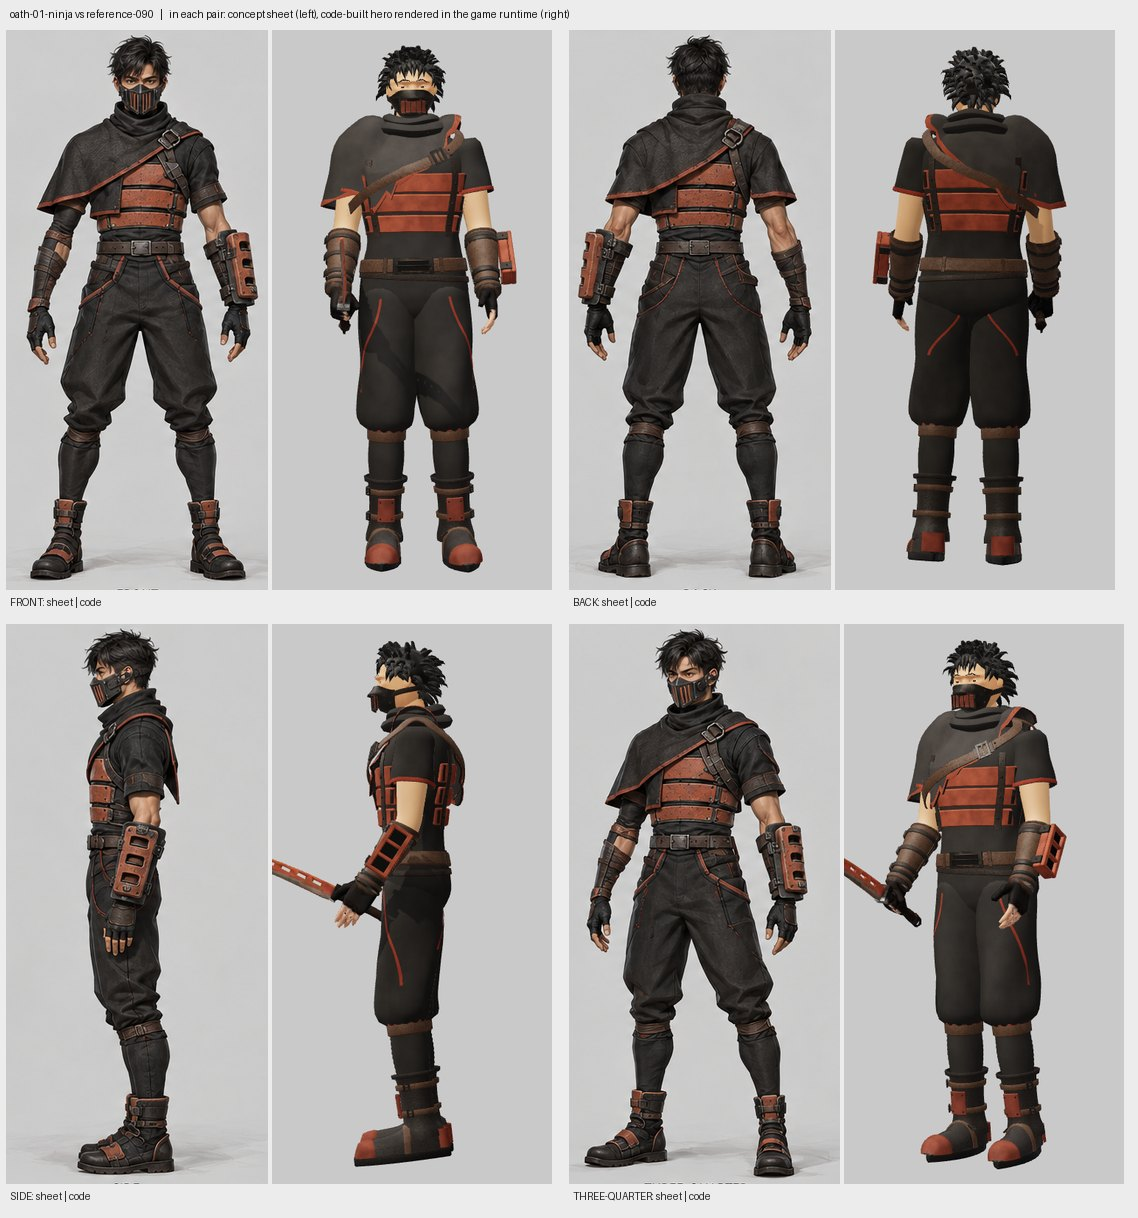
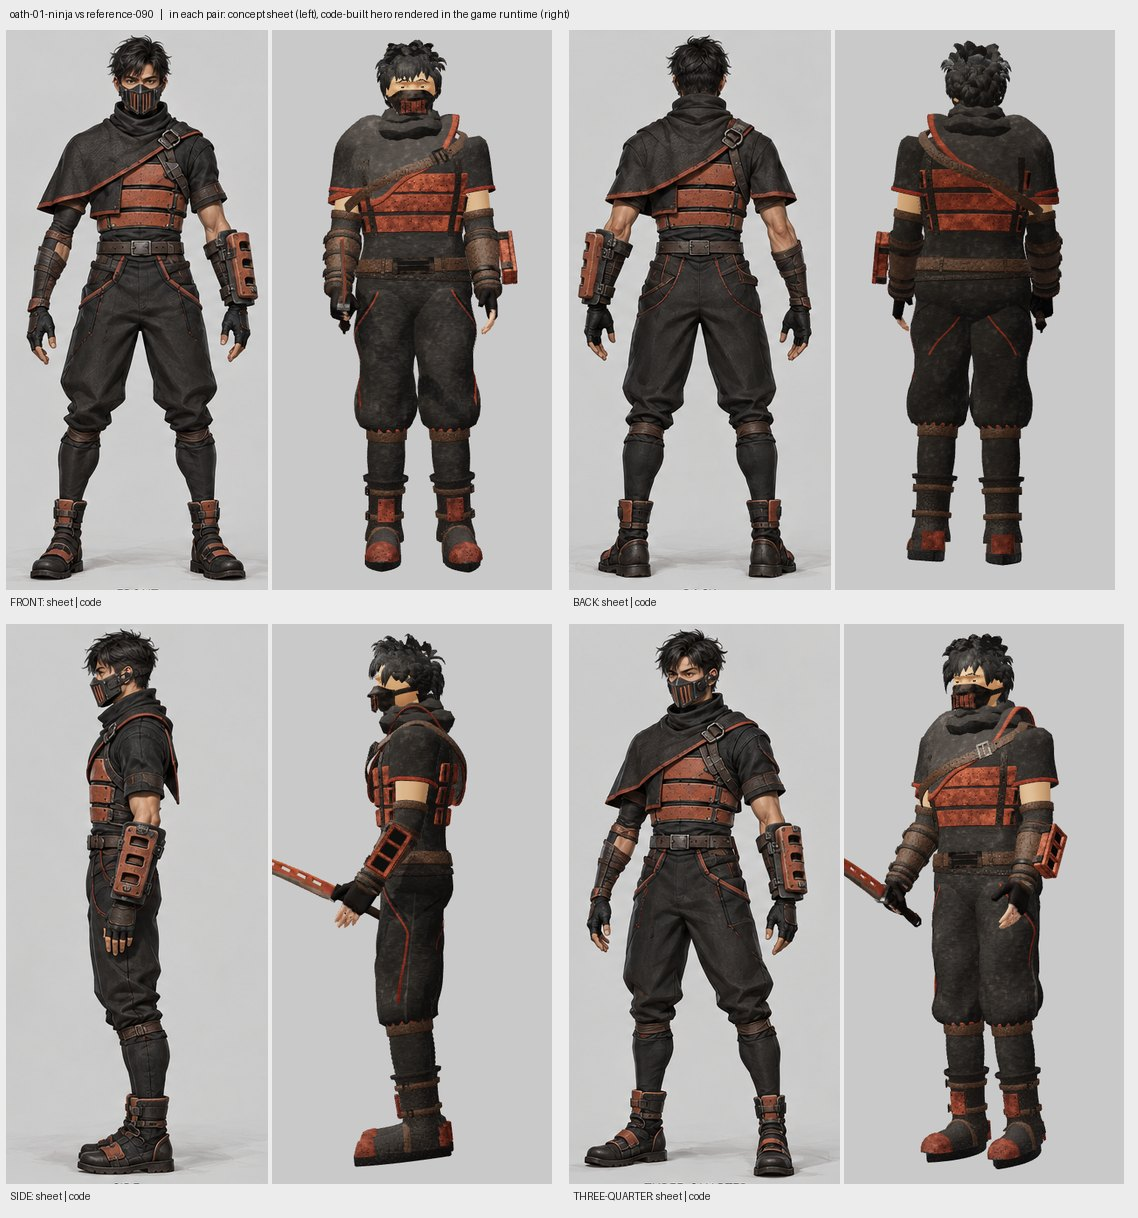
Quality pass on both Kiln heroes: textured materials, covered arms, layered hair, tailored trousers, draped capelet
Cloth now shows weave, soot and wear; ceramic is pitted and chipped with dark edges; leather has grain and
scuffs. The ninja's arms are bound under the vambraces as on the sheet, the silhouette is broader, and the
sorcerer's coat follows her legs when she casts.

Claude-Session: https://claude.ai/code/session_01SYnDkjpH2GusYDnF3Uckgg

diff --git a/game/src/three/character/sheets/builders.js b/game/src/three/character/sheets/builders.js
@@ -100,10 +100,11 @@ export function shirt(c, { color = 'cloth', sleeve = .6, flare = .012, off = .00
  * Trousers: a seat that follows the hips and two legs that balloon and are gathered at `gather` (1 = knee).
  * `bag` is the extra room at the widest point; `pleats` the number of folds running into the gather.
  */
-export function trousers(c, { color = 'cloth', gather = 1.14, bag = .046, pleats = 13, top = 'belt', piping = null, cuff = .006, pockets = [[28, 80, .0, .3], [152, 110, .04, .2]], pipingPaths = [[22, 84, -.02, .4], [84, 74, .4, .96], [208, 150, .1, .5]] }) {
+export function trousers(c, { color = 'cloth', gather = 1.14, bag = .046, pleats = 13, top = 'belt', piping = null, cuff = .006, pockets = [[28, 80, .0, .3], [152, 110, .04, .2]], pipingPaths = [[22, 84, -.02, .4], [84, 74, .4, .96], [208, 150, .1, .5]], from = null }) {
   const { trunk, leg } = c.form, col = c.pal(color), yTop = trunk.Y[top] + .02;
   c.bag.part = 'trousers';
-  c.bag.grid(40 * c.q, 12 * c.q, (u, v) => {
+  // `from` starts the legs lower down, for trousers worn under a long coat: no seat and no thigh to push through it.
+  if (from === null) c.bag.grid(40 * c.q, 12 * c.q, (u, v) => {
     const y = lerp(trunk.Y.crotch - .03, yTop, v), th = u * TAU, shut = smooth(trunk.Y.crotch + .03, trunk.Y.crotch - .03, y);
     const p = trunk.at(Math.max(y, trunk.Y.crotch), th, .011); p.y = y; p.x *= 1 - shut * .75; p.z = lerp(p.z, c.form.spineZ(y), shut * .6);
     return { p, skin: trunk.skin(p) };
@@ -122,11 +123,11 @@ export function trousers(c, { color = 'cloth', gather = 1.14, bag = .046, pleats
   };
   const light = col.clone().multiplyScalar(1.7), dark = col.clone().multiplyScalar(.3);
   // Sewn lines riding on the leg: [from angle, to angle, from t, to t, colour, width, lift].
-  const lines = [[92, 88, .0, gather - .03, light, .0045, .0016], [-88, -92, .16, gather - .03, light, .004, .0014]];
+  const start = from ?? -.155, lines = [[92, 88, Math.max(0, start), gather - .03, light, .0045, .0016], [-88, -92, Math.max(.16, start), gather - .03, light, .004, .0014]];
   for (const pocket of pockets) lines.push([pocket[0], pocket[1], pocket[2], pocket[3], dark, .011, .0012]);
   if (piping) for (const path of pipingPaths) lines.push([...path, c.pal(piping), .0065, .0026]);
   sides(c, 'both', () => {
-    tube(c, leg, { t0: -.155, t1: gather, nu: 28, nv: 30, radius, color: col });
+    tube(c, leg, { t0: start, t1: gather, nu: 28, nv: 30 * (gather - start) / 1.3, radius, color: col });
     for (const [a0, a1, tA, tB, tone, width, lift] of lines) c.bag.grid(1, 16 * c.q, (u, v) => {
       const t = lerp(tA, tB, v), phi = lerp(a0, a1, smooth(0, 1, v) * .6 + v * .4) * DEG + (u - .5) * width / leg.radius(t);
       return { p: leg.point(t, phi, radius(t, phi) + lift), skin: leg.skin(t) };
@@ -394,7 +395,7 @@ export function skirt(c, { color = 'cloth', top = 'belt', hem = .38, flare = 1.2
   };
   const skin = (p) => {
     if (p.y >= yHip) return trunk.skin(p);
-    const side = p.x >= 0 ? 'L' : 'R', drop = smooth(yHip, J['shin.L'].y + .12, p.y) * .86, lower = smooth(J['shin.L'].y + .05, J['shin.L'].y - .25, p.y) * .45, left = smooth(-.06, .06, p.x);
+    const side = p.x >= 0 ? 'L' : 'R', drop = smooth(yHip + .03, yHip - .17, p.y) * .84, lower = smooth(J['shin.L'].y + .05, J['shin.L'].y - .25, p.y) * .3, left = smooth(-.14, .14, p.x);
     return [['hips', 1 - drop], ['thigh.L', drop * left * (1 - lower)], ['thigh.R', drop * (1 - left) * (1 - lower)], [`shin.${side}`, drop * lower]];
   };
   const inner = (p) => V(0, p.y, c.form.spineZ(yHip));

diff --git a/game/src/three/character/sheets/recipes/oath-01-sorcerer.js b/game/src/three/character/sheets/recipes/oath-01-sorcerer.js
@@ -13,7 +13,7 @@ export default {
     { use: 'shirt', sleeve: 1.92, flare: .02, off: .012, slack: .005, cap: .02 },
     { use: 'band', limb: 'arm', at: .34, width: .02, off: .023, thick: .004, color: 'trim', mat: 'cloth' },
     { use: 'band', limb: 'arm', at: .62, width: .02, off: .026, thick: .004, color: 'trim', mat: 'cloth' },
-    { use: 'trousers', gather: 1.78, bag: .05, pleats: 11, pockets: [] },
+    { use: 'trousers', gather: 1.78, bag: .05, pleats: 11, pockets: [], from: .95 },
     { use: 'skirt', hem: .4, flare: 1.22, trim: 'terracotta' },
     { use: 'panel', at: 180, from: .97, to: .5, width: [.15, .19], color: 'cloth', mat: 'cloth', border: 'terracotta', thick: .004, off: .006 },
     { use: 'panel', at: 0, from: 'armpit', to: 'belt', width: [.105, .13], border: 'trim', round: .01 },

diff --git a/docs/upgrades/CHARACTERS_FROM_SHEETS.md b/docs/upgrades/CHARACTERS_FROM_SHEETS.md
@@ -32,7 +32,7 @@ is the Kiln Ninja in the running game (offline, medium quality). The character p
 | `form.js` | The tailor's form: a parametric trunk, arm, leg and foot measured from the wearer's bind-pose joints, with per-recipe build (width, depth, belly, limb girth). Garments are offsets of this form, so they fit by construction and take their skin weights from it. |
 | `kernel.js` | `Bag` (vertex/skin accumulator, grids with smooth normals, mirrored sides, hard-surface solids placed through any smooth map) and bevelled shapes (round box, slab, bar, ring, dome). |
 | `builders.js` | The garment and gear builders: `skinLimb`, `neck`, `shirt`, `trousers` (gathered, pleated, piped), `wrap`, `band`, `capelet` (cloth laid over the shoulders and arms, asymmetric by run length), `cowl`, `chestPlates`, `belt`, `strap` (+ anchor ring), `bracer`, `blockBracer` (real vent slots), `gloveCuff`, `boots` (sole, upper, shaft, toe cap, heel and shin plates, straps), `halfMask` (vented grille), `hair` (spiky, bun), `skirt` (coat), `panel` (apron, tabard), `limbPlate`, `kilnPack`. |
-| `material.js` | One procedural material; a per-vertex (roughness, metalness, kind) triple picks cloth, ceramic, leather, iron, skin, hair, hollow or ember detail in rest space. No textures, constructs in Node. |
+| `material.js` | One procedural material; a per-vertex (roughness, metalness, kind) triple picks the detail in rest space: twill weave, soot and wear on cloth; pits, chips and kiln flashing on ceramic; grain, creases and scuffs on leather; pitting and rust on iron. Plates, bands and straps also carry darkened edges in their vertex colours. No textures, constructs in Node. |
 | `costume.js` | Compiles a recipe into a geometry. |
 | `recipes/` | One data file per hero: palette, build, what to keep of the baked mesh, and a list of builder calls. |
 | `wear.js` | Runtime: measure the rig, hide the baked costume, bind the costume, hook dispose/fade. |
@@ -70,40 +70,44 @@ reference-092..095 are sorcerer line-ups and 096..098 ninja line-ups across elem
 ### oath-01-ninja (reference-090): done
 
 Evidence: `docs/qa/characters/oath-01-ninja.jpg`. Present and placed as on the sheet: soot firecloth shirt with
-short piped sleeves, bare upper arms, asymmetric capelet over the right shoulder with terracotta trim, rolled
-cowl, diagonal strap with square anchor ring at the left shoulder, three stacked ceramic chest plates front and
-back with iron clasps, side straps and riveted harness straps, leather belt with iron buckle and a second thin
-belt, leather vambraces with buckled straps, ceramic block bracer with three vent slots and iron hinge bands
-on the left forearm, glove cuffs, baggy trousers with terracotta piping gathered below the knee into a leather
-band with terracotta trim, ribbed shin wraps, boots with ceramic toe caps, shin and heel plates and straps,
-vented iron half mask with terracotta slats and head strap, short spiky black hair.
+short piped sleeves, a band of bare upper arm, dark bindings from above the elbow under leather vambraces with
+buckled straps, asymmetric capelet over the right shoulder with terracotta trim, rolled hem and drape folds,
+bunched cowl, diagonal strap with square anchor ring at the left shoulder, three stacked ceramic chest plates
+front and back with iron clasps, side straps and riveted harness straps, leather belt with iron buckle and a
+second thin belt, ceramic block bracer with three vent slots and iron hinge bands on the left forearm, glove
+cuffs, trousers with side seams, pocket openings and terracotta piping, pleated into a leather band with
+terracotta trim below the knee, ribbed shin wraps, boots with lugged sole, ceramic toe caps, shin and heel
+plates and buckled straps, vented iron half mask with terracotta slats and head strap, layered spiky black hair.
+Costume volumes are widened at the shoulders, chest, arms and legs toward the sheet's build.
 
 Differs from the sheet:
 - Hands are the baked GLB hands (dark glove texture); the fingerless glove fingers are not rebuilt.
-- Hair is a dense cap of short spikes; the painted hair has longer, looser strands and a parted fringe.
-- Chest plates and boot plates are cleaner and brighter than the painted, soot-worn ceramic; trousers are
-  smoother and fuller at the knee than the painted folds.
 - He holds his baked blade; the sheet shows him unarmed.
-- Body proportions are the rig's (narrower shoulders and a longer A-pose arm angle than the painting).
-- The capelet is a stiff laid cloth, without the painted wrinkles; the back of it follows the front's diagonal
-  (the sheet's own back and side views disagree with its front view about the capelet and strap side).
-- No belt pouches or hanging strap ends; the mask is simpler than the painted one (no nose bridge plate).
+- Joints are the rig's: the neck is shorter and the legs less long than the painting, and the head reads larger.
+- Trousers are fuller and rounder at the knee than the painted, slimmer cut; their folds are regular.
+- Boot toes are rounder and redder than the painted dark boots with small plates.
+- Hair is a cap of short layered spikes; the painted hair is longer on top with a looser parted fringe.
+- The capelet's back follows the front's diagonal (the sheet's own back and side views disagree with its
+  front about the capelet and strap side). No belt pouches or hanging strap ends; no stitching on leather.
 - The face is the existing procedural head, not a likeness of the face panel.
 
 ### oath-01-sorcerer (reference-091): done, with more differences than the ninja
 
 Evidence: `docs/qa/characters/oath-01-sorcerer.jpg`. Present: stocky build, long-sleeved firecloth coat to
 mid-shin with terracotta hem trim, piped sleeve bands, terracotta apron bib and apron skirt with pale trim,
-shoulder straps with iron buckles running over to the pack, wide belt with iron buckle, ceramic forearm guards,
-heavy cuffs, baggy trousers gathered at the ankle, short heavy boots with ceramic toe caps, kiln pack with
-iron binding, a vented door glowing ember orange and the square chimney, grey hair combed back into a bun.
+hip flaps, shoulder straps with iron buckles running over to the pack, wide studded belt with iron buckle,
+ceramic forearm guards, heavy cuffs, baggy trousers gathered at the ankle, short heavy boots with ceramic toe
+caps, kiln pack with iron binding, a vented door glowing ember orange and the square chimney, grey hair combed
+back into a bun.
 
 Differs from the sheet:
 - Hands are the baked hands and she holds her baked focus; gauntlet fingers are not rebuilt.
-- The pack is one firebox with a chimney; the painted pack has a second stepped stage and side latches.
+- The pack is one firebox with a chimney; the painted pack has a second stepped stage and side latches, and
+  its vent door is dark, not glowing.
 - Shoulders are plain sleeves with two piped bands, not the painted layered shoulder pads.
-- The apron is smooth ceramic-leather; the painted one is mottled, with riveted strap ends.
-- Hair is a combed cap, locks and a bun; no loose curls at the temples. The face is the procedural head.
+- The apron is wider and brighter than the painted one, without its riveted strap ends.
+- Hair is a combed cap, locks and a bun; no loose curls at the temples. The face is the procedural head and
+  does not resemble the portrait.
 
 ### All other heroes: not started
 
@@ -112,14 +116,16 @@ other face-gear families would need a few more builders (the existing groom gear
 
 ## Verification
 
-Seen on screen: both heroes in the turnaround stage (idle pose, plus `attack_1` for the ninja and
-`cast_release` for the sorcerer), and the ninja as the player in the running game. Not seen on screen: the
-low tier, the sorcerer in the running game, NPCs wearing these bodies, and the character preview dialog.
-In `cast_release` the sorcerer's raised knee pushed through the coat front; the skirt weights were then moved
-toward the thighs, and that change has only been built and unit-tested, not re-rendered.
+Seen on screen (turnaround stage, through BodyFactory): both heroes idle from four sides, a chest close-up of
+the ninja, the ninja in `attack_1` and running, the sorcerer in `cast_release` and running; and the ninja as
+the player in the running game (before the quality pass). Not seen on screen: the low tier, the sorcerer in
+the running game, NPCs wearing these bodies, the character preview dialog.
+Sorcerer coat: in `cast_release` the raised knee no longer comes through (the skirt follows the thighs). In the
+run the forward thigh's trouser still pushed through the apron, so her trousers now start below the coat
+(`from: .95`); see the final report for whether that last change was re-rendered.
 
 ## Cost
 
-Kiln Ninja: about 32,100 triangles on high, 1 draw call; Kiln Sorcerer: about 26,500. The baked surface
+Kiln Ninja: about 35,000 triangles on high, 1 draw call; Kiln Sorcerer: about 29,000. The baked surface
 (24k) is no longer drawn apart from the hands and weapon, so the net per-hero triangle count is close to before.
 Build time is a few hundred milliseconds once per hero and tier, cached.
